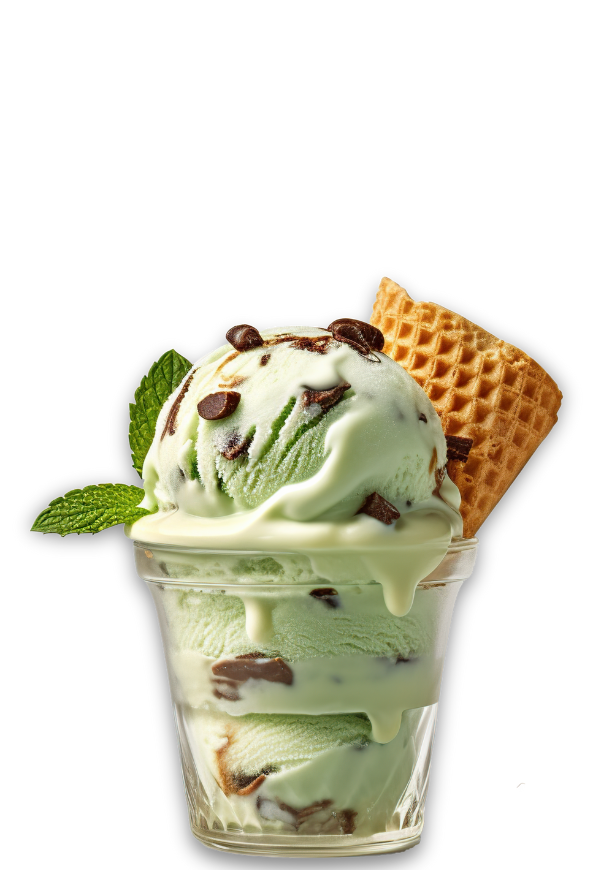
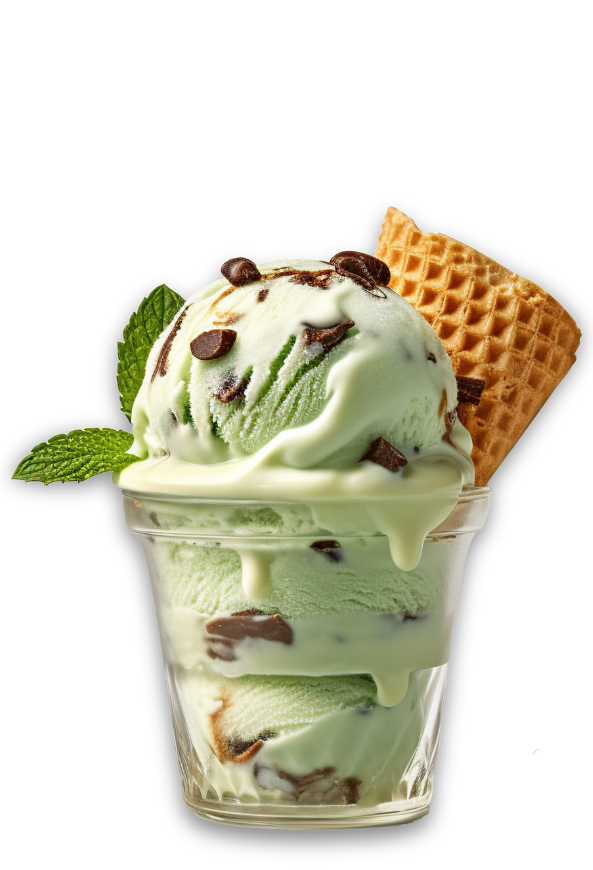
final data update + hero ice cream image updated

diff --git a/about.html b/about.html
@@ -395,12 +395,12 @@
                                     <!-- Bistly Blog Post -->
                                     <div class="bistly-blog-post mb-3" data-aos="fade-up" data-aos-duration="800">
                                         <div class="post-thumbnail">
-                                            <img src="assets/images/innerpage/blog/blog-img1.jpg" alt="Post Thumbnail">
+                                            <img class="rounded-4" src="assets/images/innerpage/blog/blog-img1.jpg" alt="Post Thumbnail">
                                         </div>
                                         <div class="post-content">
                                             <div class="post-meta">
-                                                <span><i class="far fa-user"></i>By John</span>
-                                                <span><i class="far fa-calendar-alt"></i>May 19, 2025</span>
+                                                <span><i class="far fa-user"></i>By Chef Ayesha</span>
+                                                <span><i class="far fa-calendar-alt"></i>June 15, 2025</span>
                                             </div>
                                             <h4><a href="blog-details.html">The Matcha Berry Swirl: A Fusion of Tradition and Freshness</a></h4>
                                             <a href="blog-details.html" class="read-more style-one">Read More</a>
@@ -411,12 +411,12 @@
                                     <!-- Bistly Blog Post -->
                                     <div class="bistly-blog-post mb-3" data-aos="fade-up" data-aos-duration="1000">
                                         <div class="post-thumbnail">
-                                            <img src="assets/images/innerpage/blog/blog-img2.jpg" alt="Post Thumbnail">
+                                            <img class="rounded-4" src="assets/images/innerpage/blog/blog-img2.jpg" alt="Post Thumbnail">
                                         </div>
                                         <div class="post-content">
                                             <div class="post-meta">
-                                                <span><i class="far fa-user"></i>By John</span>
-                                                <span><i class="far fa-calendar-alt"></i>May 19, 2025</span>
+                                                <span><i class="far fa-user"></i>By Chef Raj</span>
+                                                <span><i class="far fa-calendar-alt"></i>June 18, 2025</span>
                                             </div>
                                             <h4><a href="blog-details.html">The Making of Zesty Lemon Swirl: A Culinary Journey</a></h4>
                                             <a href="blog-details.html" class="read-more style-one">Read More</a>
@@ -427,12 +427,12 @@
                                     <!-- Bistly Blog Post -->
                                     <div class="bistly-blog-post mb-3" data-aos="fade-up" data-aos-duration="1200">
                                         <div class="post-thumbnail">
-                                            <img src="assets/images/innerpage/blog/blog-img3.jpg" alt="Post Thumbnail">
+                                            <img class="rounded-4" src="assets/images/innerpage/blog/blog-img3.jpg" alt="Post Thumbnail">
                                         </div>
                                         <div class="post-content">
                                             <div class="post-meta">
-                                                <span><i class="far fa-user"></i>By John</span>
-                                                <span><i class="far fa-calendar-alt"></i>May 19, 2025</span>
+                                                <span><i class="far fa-user"></i>By Chef Priya</span>
+                                                <span><i class="far fa-calendar-alt"></i>June 21, 2025</span>
                                             </div>
                                             <h4><a href="blog-details.html">Piña Colada Swirl: A Tropical Escape in Every Scoop</a></h4>
                                             <a href="blog-details.html" class="read-more style-one">Read More</a>

diff --git a/index.html b/index.html
@@ -135,7 +135,7 @@
                                     </div>
                                     <div class="col-lg-6">
                                         <!-- Bistly Author Box -->
-                                        <div class="bistly-author-box" data-aos="fade-up" data-aos-duration="1200">
+                                        <!-- <div class="bistly-author-box" data-aos="fade-up" data-aos-duration="1200">
                                             <div class="author-thumbs">
                                                 <img src="assets/images/home-dessert/hero/author-thumb1.png"
                                                     alt="Author">
@@ -149,7 +149,7 @@
                                                     alt="Author">
                                             </div>
                                             <h2>8K+ <span>Satisfied Clients</span></h2>
-                                        </div>
+                                        </div> -->
                                     </div>
                                 </div>
                             </div>
@@ -722,7 +722,7 @@
                                 <!-- Bistly Blog Post -->
                                 <div class="bistly-blog-post mb-5">
                                     <div class="post-thumbnail">
-                                        <img src="assets/images/home-dessert/blog/blog-img1.jpg" alt="Post Thumbnail">
+                                        <img class="rounded-4" src="assets/images/home-dessert/blog/blog-img1.jpg" alt="Post Thumbnail">
                                     </div>
                                     <div class="post-content">
                                         <div class="post-meta">
@@ -738,7 +738,7 @@
                                 <!-- Bistly Blog Post -->
                                 <div class="bistly-blog-post mb-5">
                                     <div class="post-thumbnail">
-                                        <img src="assets/images/home-dessert/blog/blog-img2.jpg" alt="Post Thumbnail">
+                                        <img class="rounded-4" src="assets/images/home-dessert/blog/blog-img2.jpg" alt="Post Thumbnail">
                                     </div>
                                     <div class="post-content">
                                         <div class="post-meta">
@@ -754,7 +754,7 @@
                                 <!-- Bistly Blog Post -->
                                 <div class="bistly-blog-post mb-5">
                                     <div class="post-thumbnail">
-                                        <img src="assets/images/home-dessert/blog/blog-img3.jpg" alt="Post Thumbnail">
+                                        <img class="rounded-4" src="assets/images/home-dessert/blog/blog-img3.jpg" alt="Post Thumbnail">
                                     </div>
                                     <div class="post-content">
                                         <div class="post-meta">

diff --git a/assets/css/pages/home-dessert.css b/assets/css/pages/home-dessert.css
@@ -157,7 +157,7 @@ Version: 1.0
 .ds-hero-sec .hero-image-wrap {
   position: absolute;
   bottom: 0;
-  left: 60%;
+  left: 80%;
   -webkit-transform: translateX(-50%);
           transform: translateX(-50%);
   width: 55%;
@@ -777,7 +777,7 @@ Version: 1.0
   margin-bottom: 45px;
 }
 .ds-cta-wrapper .ds-cta-box form .form_control {
-  padding: 10px 20px;
+  padding: 13px 20px;
   border-radius: 50px;
   border: none;
 }
@@ -787,7 +787,7 @@ Version: 1.0
   right: 0;
 }
 .ds-cta-wrapper .ds-cta-box form .theme-btn.style-one {
-  border-radius: 0px;
+  border-radius: 30px;
 }
 @media (max-width: 767.98px) {
   .ds-cta-wrapper .ds-cta-box form .theme-btn {
